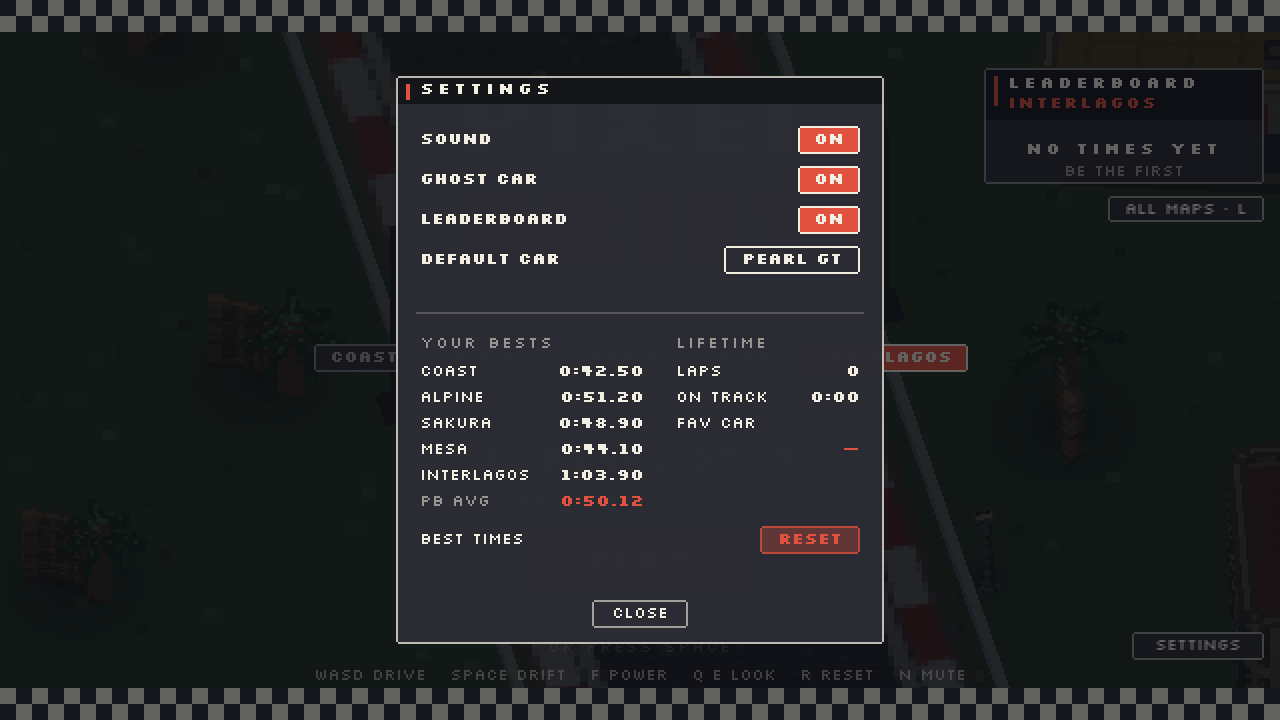
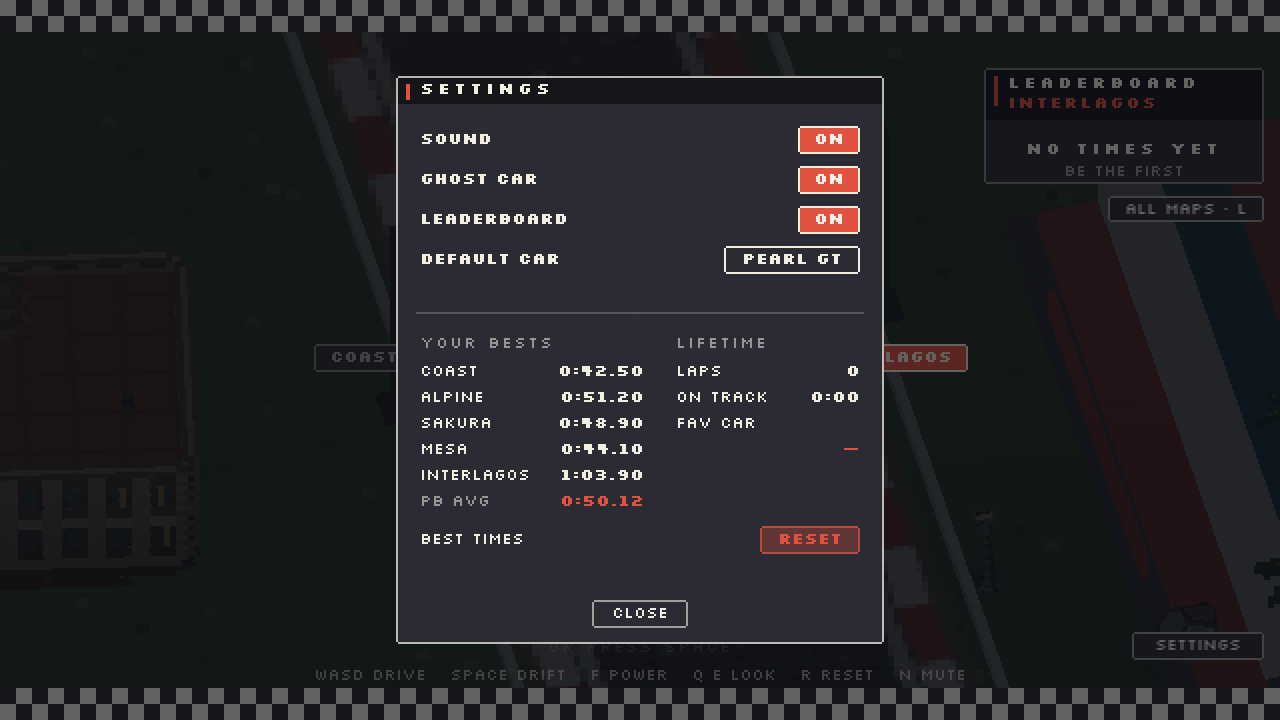
world: line the main straight with stands, move the pits inside it
The stands used fixed index offsets, so a 1.6 km lap put them wherever those
landed. Follow the start/finish straight instead and drop a row of blocks
down its outside, which is where the grandstands of a real circuit sit.

The Interlagos pit block moves to the inside of that straight, facing the
stands across the track, clear of their colliders.

Generated by Mistral Vibe.

Changed region(s): [[0.0, 0.9472, 1.0, 1.0], [0.0, 0.0, 1.0, 0.0611]]

diff --git a/src/world.ts b/src/world.ts
@@ -256,10 +256,10 @@ export const MAPS: MapDef[] = [
     ],
     trees: 'palm', density: 1.05, tint: '#fff3d8',
     props: { trees: 900, rocks: 300, buildings: 8, lampStride: 20, rockScale: 1.2 },
-    // the pit block and race-day buildings along the outside of the main straight
+    // the pit block on the inside of the main straight, facing the stands
     town: [
-      [112.6, -68.4], [104.5, -55], [106.3, -35.7], [110, -22],
-      [114, -8.3], [118, 6], [121, 19], [128.7, 46.2],
+      [84.5, -26.2], [88.1, -12.5], [91.8, 1.3], [95.6, 14.9],
+      [99.3, 28.7], [103.2, 42.4], [107.1, 56.2], [110.1, 66.3],
     ],
     sky: '#eeb27f',
     grandstands: true,
@@ -982,10 +982,24 @@ export async function buildWorld(scene: THREE.Scene, mapId?: string): Promise<Wo
     for (const p of track) { ccx += p.x; ccz += p.z; }
     ccx /= track.length; ccz /= track.length;
     const standStart = straightestIndex(track);
-    const offsets = [46, 300, 610];
     const seatColours = [0xe0513f, 0xf2eee1, 0x2b6d7a];
-    offsets.forEach((off, k) => {
-      const i = (standStart + off) % track.length;
+    const headingAt = (i: number) => {
+      const p = track[i % track.length], q = track[(i + 1) % track.length];
+      return Math.atan2(q.z - p.z, q.x - p.x);
+    };
+    // How far the start/finish straight runs before it bends, so the stands
+    // line that straight however long the lap is instead of landing wherever a
+    // fixed index offset happens to fall.
+    const h0 = headingAt(standStart);
+    let run = 0;
+    while (run < 400) {
+      let d = Math.abs(headingAt(standStart + run) - h0) % (Math.PI * 2);
+      if (d > Math.PI) d = Math.PI * 2 - d;
+      if (d > 0.16) break;
+      run++;
+    }
+    const stand = (i: number, k: number) => {
+      i %= track.length;
       const p = track[i], q = track[(i + 6) % track.length];
       const dx = q.x - p.x, dz = q.z - p.z;
       const len = Math.hypot(dx, dz) || 1;
@@ -1008,7 +1022,12 @@ export async function buildWorld(scene: THREE.Scene, mapId?: string): Promise<Wo
       addBox(g, 0.10, 0.18, 13.4, 0xf2eee1, side * 3.0, 1.40, 0);
       group.add(g);
       colliders.push({ x, z, r: 7.0 });
-    });
+    };
+    const blocks = Math.max(3, Math.min(7, Math.round(run / 16)));
+    const spread = run >= 24 ? run : track.length;
+    for (let k = 0; k < blocks; k++) {
+      stand(standStart + Math.round(spread * (0.06 + (0.88 * k) / (blocks - 1))), k);
+    }
   }
 
   if (map.armco) {
